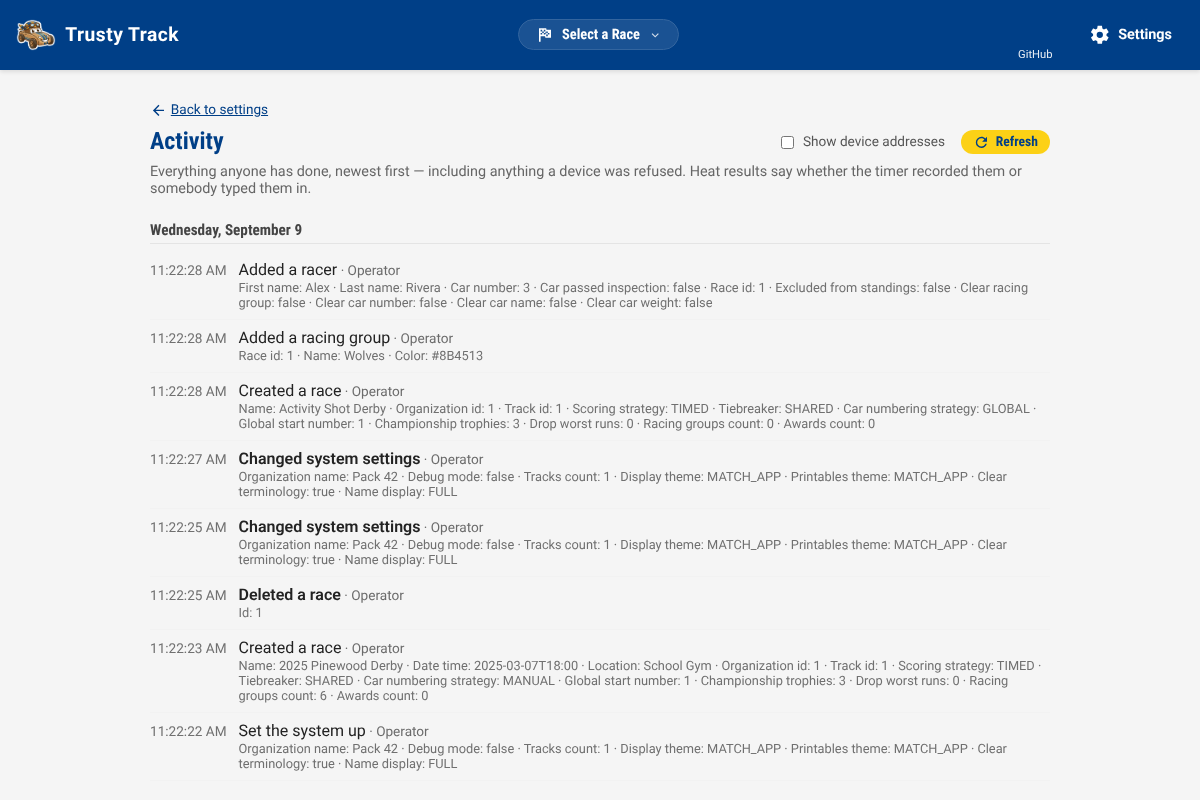
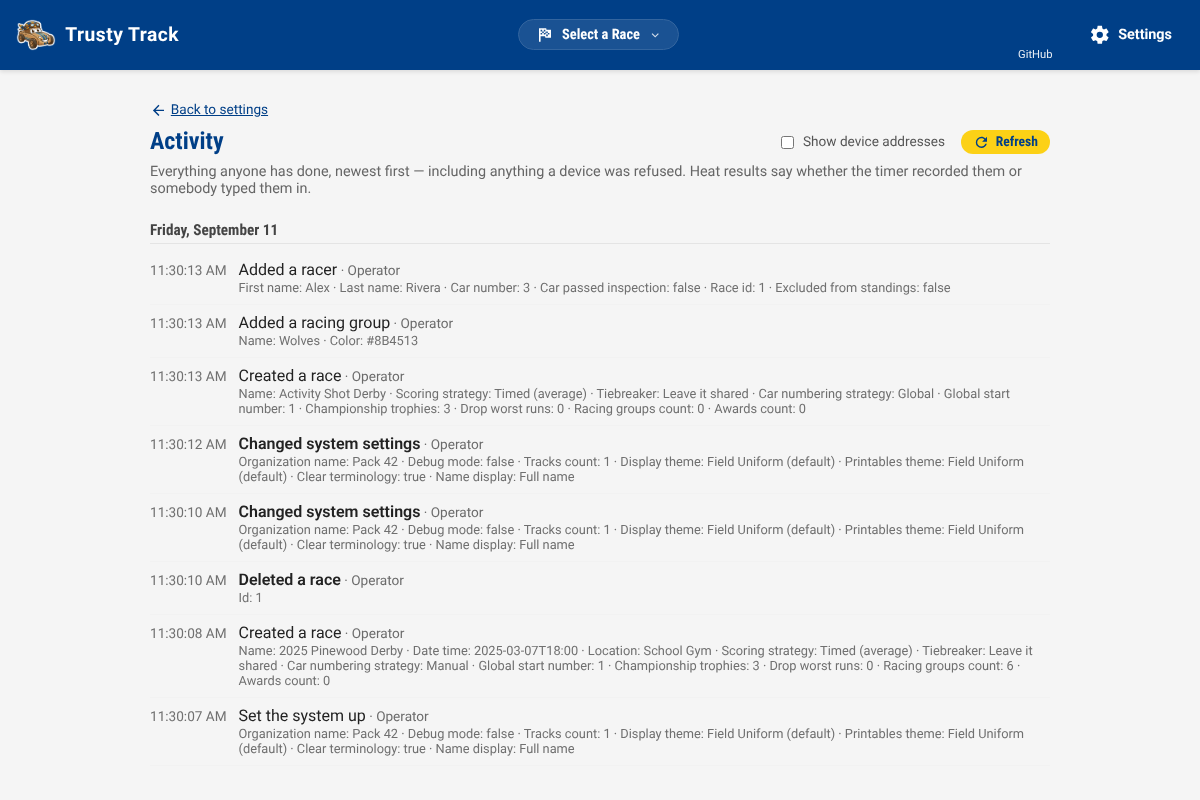
Stats and the activity log printed internal codes, not words
The Stats page's Scoring card rendered `{stats.scoringStrategy}` raw
("TIMED") where the Roster page already turns the same value into
"Timed (average)" through `strategyLabel`. The activity log's detail
lines went further — every enum-valued mutation argument the log
stores (scoring strategy, tiebreaker, car numbering strategy, the two
theme fields, name display, timer type) printed its internal spelling
verbatim, alongside `clearX: false` riders that did nothing and an id
beside a name that already said the same thing better.

`describeValue(field, value)` maps a stored detail's leaf field name
through the exact label tables the forms that wrote it already use —
`strategyLabel`, `TIEBREAKER_OPTIONS`, the new `numberingStrategyLabel`
(extracted from `RaceDetails.tsx`'s own inline map so the race summary
card and the log read the same word), `themeSettingLabel` (new,
alongside `themeByKey`), `NAME_DISPLAY_OPTIONS`, and `timerTypeLabel`
(new, extracted from `TrackCard.tsx`'s `<select>` so the picker and the
log cannot drift apart). Applied at render, never stored — an audit
entry stays exactly the self-contained claim it always was.

`detailPairs` in `activityLog.ts` also now drops a `clearX: false`
rider (a flag that did nothing is not something that happened) and
prefers a `name` detail over an `id` detail when an entry carries both,
without fetching anything to manufacture the half that's missing.

Fixes #942

diff --git a/frontend/src/features/settings/describeValue.ts b/frontend/src/features/settings/describeValue.ts
@@ -1,0 +1,57 @@
+/**
+ * Turning a stored detail's raw value into words, at render time (#942).
+ *
+ * The activity log's detail line used to print `Scoring strategy: TIMED`,
+ * `Tiebreaker: SHARED`, `Display theme: MATCH_APP` — an audit entry stores
+ * exactly the arguments a mutation was called with (`domain/audit.redact`),
+ * which for these fields is the internal enum value a form picker chose
+ * from, not a word an operator ever typed or read. `domain/audit.describe`
+ * renders the log's *sentence* from the entry alone and never looks
+ * anything up ("The activity log" in `CLAUDE.md` — an entry is a claim
+ * about a moment that has passed) — this is that same rule applied to the
+ * *values* listed underneath the sentence: no fetch, no id resolved against
+ * the database as it stands today, only the value the entry already stored,
+ * read through the exact label tables the forms that wrote it already use.
+ *
+ * `field` is the leaf key — `detailPairs` in `activityLog.ts` strips the
+ * `race.`/`config.` prefix a nested input's flattening adds before calling
+ * this — matched with underscores and case folded away, so the stored
+ * `scoring_strategy` and any differently-cased variant land on the same
+ * case below.
+ *
+ * A field this module has never heard of, or a value none of the tables it
+ * reads recognise, passes through unchanged: the same "print something
+ * rather than throw" rule every label helper here already follows
+ * (`strategyLabel`, `themeByKey`, `timerTypeLabel`).
+ */
+
+import { strategyLabel } from '../stats/scoringStrategyText';
+import { TIEBREAKER_OPTIONS } from '../stats/tiebreakText';
+import { numberingStrategyLabel } from '../management/raceSetup';
+import { themeSettingLabel } from '../../theming/themes';
+import { NAME_DISPLAY_OPTIONS } from '../core/displayName';
+import { timerTypeLabel } from './timerTypeText';
+
+function normalised(field: string): string {
+    return field.toLowerCase().replace(/_/g, '');
+}
+
+export function describeValue(field: string, value: string): string {
+    switch (normalised(field)) {
+        case 'scoringstrategy':
+            return strategyLabel(value);
+        case 'tiebreaker':
+            return TIEBREAKER_OPTIONS.find((option) => option.value === value)?.label ?? value;
+        case 'carnumberingstrategy':
+            return numberingStrategyLabel(value);
+        case 'displaytheme':
+        case 'printablestheme':
+            return themeSettingLabel(value);
+        case 'namedisplay':
+            return NAME_DISPLAY_OPTIONS.find((option) => option.value === value)?.label ?? value;
+        case 'timertype':
+            return timerTypeLabel(value);
+        default:
+            return value;
+    }
+}

diff --git a/frontend/src/features/settings/activityLog.ts b/frontend/src/features/settings/activityLog.ts
@@ -10,6 +10,8 @@
  * Pure. No React, no urql.
  */
 
+import { describeValue } from './describeValue';
+
 export interface LogEntry {
     id: number;
     at: string;
@@ -125,6 +127,14 @@ export function hasAnotherPage(page: readonly LogEntry[], pageSize: number): boo
     return page.length >= pageSize;
 }
 
+/** `race.carNumberingStrategy` → `carNumberingStrategy` — the part
+ * `humanise` turns into words and `describeValue` (#942) matches a label
+ * table on. Its own function because both need it and neither should
+ * re-derive it differently. */
+function leafKey(key: string): string {
+    return key.split('.').pop() ?? key;
+}
+
 /**
  * The stored details, as label/value pairs.
  *
@@ -142,14 +152,32 @@ export function detailPairs(details: string | null | undefined): DetailPair[] {
     }
     if (!parsed || typeof parsed !== 'object' || Array.isArray(parsed)) return [];
 
-    return Object.entries(parsed as Record<string, unknown>)
+    const entries = Object.entries(parsed as Record<string, unknown>)
         // `reason` (#889) is a refusal's own message, already folded into the
         // bolded summary sentence by `domain/audit.describe` — showing it
         // again here would say the same thing twice.
         .filter(([key]) => key !== 'reason')
+        // A `clearX: false` rider (`clearWeightLimit`, `clearTerminology`…)
+        // did nothing — absent already means "leave alone" for every one of
+        // these flags — so it is not something that happened (#942). A
+        // `true` rider stays: that one changed something.
+        .filter(([key, value]) => !(/^clear/i.test(leafKey(key)) && value === false));
+
+    // Prefer the name over the id when an entry carries both (#942) — the
+    // id beside a name that already identifies the same thing says nothing
+    // more. Kept when the name is all there is, or the id is all there is:
+    // nothing here is fetched to manufacture the half that is missing.
+    const hasName = entries.some(([key]) => leafKey(key).toLowerCase() === 'name');
+    const isIdLeaf = (key: string) => {
+        const leaf = leafKey(key);
+        return /^id$/i.test(leaf) || /_id$/i.test(leaf) || /Id$/.test(leaf);
+    };
+
+    return entries
+        .filter(([key]) => !(hasName && isIdLeaf(key)))
         .map(([key, value]) => ({
             label: humanise(key),
-            value: String(value),
+            value: describeValue(leafKey(key), String(value)),
         }));
 }
 

diff --git a/frontend/src/features/settings/activityLog.test.ts b/frontend/src/features/settings/activityLog.test.ts
@@ -125,6 +125,44 @@ describe('detailPairs', () => {
             detailPairs('{"id": 4, "reason": "VIEWER is not allowed to run deleteRound"}'),
         ).toEqual([{ label: 'Id', value: '4' }]);
     });
+
+    it('reads a known enum field through its label table (#942)', () => {
+        expect(detailPairs('{"race.scoring_strategy": "TIMED"}')).toEqual([
+            { label: 'Scoring strategy', value: 'Timed (average)' },
+        ]);
+        expect(detailPairs('{"race.display_theme": "MATCH_APP"}')).toEqual([
+            { label: 'Display theme', value: 'Field Uniform (default)' },
+        ]);
+    });
+
+    it('leaves an unmapped field as its raw value', () => {
+        expect(detailPairs('{"name": "Pack 42"}')).toEqual([{ label: 'Name', value: 'Pack 42' }]);
+    });
+
+    it('drops a clearX: false rider — a flag that did nothing is not something that happened', () => {
+        expect(
+            detailPairs('{"race.name": "2026 Derby", "race.clear_terminology": false}'),
+        ).toEqual([{ label: 'Name', value: '2026 Derby' }]);
+    });
+
+    it('keeps a clearX: true rider — that one changed something', () => {
+        expect(
+            detailPairs('{"race.name": "2026 Derby", "race.clear_terminology": true}'),
+        ).toEqual([
+            { label: 'Name', value: '2026 Derby' },
+            { label: 'Clear terminology', value: 'true' },
+        ]);
+    });
+
+    it('prefers the name over the id when the entry carries both', () => {
+        expect(detailPairs('{"id": 1, "race.name": "2026 Derby"}')).toEqual([
+            { label: 'Name', value: '2026 Derby' },
+        ]);
+    });
+
+    it('keeps the id when it is all there is', () => {
+        expect(detailPairs('{"id": 1}')).toEqual([{ label: 'Id', value: '1' }]);
+    });
 });
 
 describe('humanise', () => {

diff --git a/frontend/src/features/settings/describeValue.test.ts b/frontend/src/features/settings/describeValue.test.ts
@@ -1,0 +1,37 @@
+import { describe, expect, it } from 'vitest';
+import { describeValue } from './describeValue';
+
+describe('describeValue', () => {
+    it.each([
+        ['scoring_strategy', 'TIMED', 'Timed (average)'],
+        ['scoring_strategy', 'POINTS', 'Points (by finish)'],
+        ['tiebreaker', 'SHARED', 'Leave it shared'],
+        ['tiebreaker', 'HEAD_TO_HEAD', 'Head-to-head'],
+        ['car_numbering_strategy', 'GLOBAL', 'Global'],
+        ['car_numbering_strategy', 'PER_GROUP', 'Per Den'],
+        ['car_numbering_strategy', 'MANUAL', 'Manual'],
+        ['display_theme', 'MATCH_APP', 'Field Uniform (default)'],
+        ['display_theme', 'old-glory', 'Old Glory'],
+        ['printables_theme', 'newsprint', 'Newsprint'],
+        ['name_display', 'LAST_INITIAL', 'First name and last initial'],
+        ['name_display', 'FULL', 'Full name'],
+        ['timer_type', 'AUTO_DETECT_BACKEND', 'Plugged into this machine'],
+        ['timer_type', 'FAKE', 'Fake Timer (Manual Control)'],
+    ])('maps %s: %s to %s', (field, value, expected) => {
+        expect(describeValue(field, value)).toBe(expected);
+    });
+
+    it('leaves a field it has never heard of unchanged', () => {
+        expect(describeValue('weight_limit_oz', '5')).toBe('5');
+    });
+
+    it('leaves a value none of its tables recognise unchanged', () => {
+        expect(describeValue('scoring_strategy', 'SOME_FUTURE_STRATEGY')).toBe(
+            'SOME_FUTURE_STRATEGY',
+        );
+    });
+
+    it('does not touch a false rider — dropping it is detailPairs’ job, not this one’s', () => {
+        expect(describeValue('clear_terminology', 'false')).toBe('false');
+    });
+});

diff --git a/frontend/src/features/settings/components/TrackCard.tsx b/frontend/src/features/settings/components/TrackCard.tsx
@@ -25,6 +25,7 @@ import TrackRecords, { type HistoricalRecord } from './TrackRecords';
 import { useTerminology } from '../../../context/TerminologyContext';
 import { lanesOf } from '../laneOutages';
 import { colorForLane, presetColors, presetForLaneCount, presetNameForColor, setLaneColor } from '../laneColors';
+import { TIMER_TYPE_LABELS } from '../timerTypeText';
 
 export interface TrackFields {
   // Absent until the track has been saved, which is also when it can first
@@ -386,14 +387,14 @@ export default function TrackCard({
           onChange={(e) => onChange('timerType', e.target.value)}
           style={{ ...textInput, marginBottom: track.timerType === 'FAKE' || track.timerType === 'NONE' ? '0' : '1rem' }}
         >
-          <option value="FAKE">Fake Timer (Manual Control)</option>
+          <option value="FAKE">{TIMER_TYPE_LABELS.FAKE}</option>
           {showBackendOption && (
-            <option value="AUTO_DETECT_BACKEND">Plugged into this machine</option>
+            <option value="AUTO_DETECT_BACKEND">{TIMER_TYPE_LABELS.AUTO_DETECT_BACKEND}</option>
           )}
           {showProxyOption && (
-            <option value="AUTO_DETECT_PROXY">Plugged into the laptop running the browser</option>
+            <option value="AUTO_DETECT_PROXY">{TIMER_TYPE_LABELS.AUTO_DETECT_PROXY}</option>
           )}
-          <option value="NONE">No timer — I'll enter results by hand</option>
+          <option value="NONE">{TIMER_TYPE_LABELS.NONE}</option>
         </select>
       </div>
 

diff --git a/frontend/src/features/management/raceSetup.ts b/frontend/src/features/management/raceSetup.ts
@@ -135,6 +135,33 @@ export function numberingStrategyFor(
 }
 
 /**
+ * A short, human name for `car_numbering_strategy` — "Global", "Per Den",
+ * "Manual" (#942) — for the race summary card and the activity log, both of
+ * which used to show the raw stored value. `group` is the resolved
+ * racing-group word, so a renamed install reads "Per Class" rather than a
+ * fixed "Per Den"; callers with no terminology in view (the activity log
+ * never fetches one, to keep an entry self-contained — see `describeValue`
+ * in `activityLog.ts`) get the built-in word via the default. Falls back to
+ * the raw string for a value this module does not recognise, the same
+ * "print something rather than throw" rule `strategyLabel` follows.
+ */
+export function numberingStrategyLabel(
+    strategy: string | null | undefined,
+    group: string = DEFAULT_TERMINOLOGY.racingGroupSingular,
+): string {
+    switch (strategy) {
+        case 'MANUAL':
+            return 'Manual';
+        case 'PER_GROUP':
+            return `Per ${group}`;
+        case 'GLOBAL':
+            return 'Global';
+        default:
+            return strategy ?? '-';
+    }
+}
+
+/**
  * The groups the answers scaffold, each with the number block Manage Dens
  * would have offered it in turn — 100–199, 200–299 — so a race set up here
  * numbers exactly as one set up by hand. Under global numbering the ranges

diff --git a/frontend/src/features/management/pages/RaceDetails.tsx b/frontend/src/features/management/pages/RaceDetails.tsx
@@ -38,6 +38,7 @@ import * as GQL from '../graphql/queries';
 import { DEFAULT_SORT, nextSortState, sortRacers, type SortKey, type SortState } from '../rosterSort';
 import { groupRacersByRacingGroup } from '../groupRacersByRacingGroup';
 import { strategyLabel } from '../../stats/scoringStrategyText';
+import { numberingStrategyLabel } from '../raceSetup';
 import { RACE_LOCKED_MESSAGE } from '../../core/raceLockMessage';
 
 /**
@@ -898,11 +899,7 @@ export default function RaceDetails() {
           )}
           <div style={{ display: 'grid', gridTemplateColumns: 'repeat(auto-fit, minmax(200px, 1fr))', gap: '1rem' }}>
               <div><strong>Scoring:</strong> {strategyLabel(race?.scoring_strategy)}</div>
-              <div><strong>{vehicle} Numbering:</strong> {race?.car_numbering_strategy ? ({
-                  'MANUAL': 'Manual',
-                  'PER_GROUP': `Per ${group}`,
-                  'GLOBAL': 'Global'
-              }[race.car_numbering_strategy] || race.car_numbering_strategy) : '-'}</div>
+              <div><strong>{vehicle} Numbering:</strong> {numberingStrategyLabel(race?.car_numbering_strategy, group)}</div>
               <div><strong>Championship Trophies:</strong> {race?.championship_trophies || 3}</div>
               <div><strong>Track:</strong> {Array.isArray(tracks) && tracks.find(t => t.id === race?.track_id)?.name || 'Unknown'}</div>
           </div>

diff --git a/frontend/src/features/settings/timerTypeText.ts b/frontend/src/features/settings/timerTypeText.ts
@@ -1,0 +1,25 @@
+/**
+ * Saying a track's `timerType` out loud (#942).
+ *
+ * `Track.timerType` crosses the GraphQL boundary as a plain string —
+ * `AUTO_DETECT_BACKEND`, `AUTO_DETECT_PROXY` — which is exactly the wrong
+ * thing to put in front of an operator. `TrackCard.tsx`'s Timer Type
+ * `<select>` is the one place these were previously spelled out in words;
+ * `TIMER_TYPE_LABELS` is that same wording, moved here so the activity log
+ * (`activityLog.ts`'s `describeValue`) can read it too rather than growing a
+ * second copy of the same four strings.
+ */
+
+export const TIMER_TYPE_LABELS: Readonly<Record<string, string>> = {
+    FAKE: 'Fake Timer (Manual Control)',
+    AUTO_DETECT_BACKEND: 'Plugged into this machine',
+    AUTO_DETECT_PROXY: 'Plugged into the laptop running the browser',
+    NONE: "No timer — I'll enter results by hand",
+};
+
+/** A short, human name for a timer type. Falls back to the raw string for a
+ * value this module does not recognise, the same "print something rather
+ * than throw" rule `strategyLabel` follows. */
+export function timerTypeLabel(timerType: string | null | undefined): string {
+    return (timerType && TIMER_TYPE_LABELS[timerType]) || timerType || '-';
+}

diff --git a/frontend/src/theming/themes.ts b/frontend/src/theming/themes.ts
@@ -1743,3 +1743,19 @@ export function themeByKey(key: string): Theme {
 /** Every key this build ships, for the picker and for validating a stored
  *  value. */
 export const THEME_KEYS: readonly ThemeKey[] = THEMES.map((t) => t.key);
+
+/**
+ * A short, human name for a `SurfaceThemeSetting` — a Display or Printables
+ * theme, straight off `Organization.display_theme`/`printables_theme` (#942)
+ * — for the activity log, which otherwise showed the raw stored value
+ * (`MATCH_APP`, `old-glory`). `'Field Uniform (default)'` mirrors
+ * `ThemePicker.tsx`'s own wording for the `MATCH_APP` sentinel (#528); every
+ * other value is an ordinary `ThemeKey` and reads its name off `themeByKey`,
+ * so this is not a second table of theme names, only the one extra case
+ * `themeByKey` itself does not cover.
+ */
+export function themeSettingLabel(setting: string | null | undefined): string {
+  if (setting === 'MATCH_APP') return 'Field Uniform (default)';
+  if (!setting) return '-';
+  return themeByKey(setting).name;
+}

diff --git a/frontend/src/features/stats/pages/RaceStats.tsx b/frontend/src/features/stats/pages/RaceStats.tsx
@@ -18,6 +18,7 @@ import { GET_RACE_STATS } from '../graphql/queries';
 import { useTerminology } from '../../../context/TerminologyContext';
 import { formatScaleMph } from '../../observation/scaleSpeed';
 import { groupScoreDomain } from '../groupScoreDomain';
+import { strategyLabel } from '../scoringStrategyText';
 import './RaceStats.css';
 
 // ---- Types ----
@@ -235,7 +236,7 @@ export default function RaceStats() {
       <div className="race-stats__overview-cards">
         <div className="race-stats__overview-card race-stats__overview-card--badge">
           <div className="race-stats__overview-card-label">Scoring</div>
-          <div className="race-stats__overview-card-value">{stats.scoringStrategy}</div>
+          <div className="race-stats__overview-card-value">{strategyLabel(stats.scoringStrategy)}</div>
         </div>
         <div className="race-stats__overview-card">
           <div className="race-stats__overview-card-label">Racers</div>

diff --git a/docs/race-stats.md b/docs/race-stats.md
@@ -24,7 +24,7 @@ _Click the Stats tab in the race navigation bar to open the Stats page._
 
 At the top of the page, three summary cards give you a quick snapshot of the race:
 
-- **Scoring** — the scoring method in use (e.g., "TIMED" for fastest average time).
+- **Scoring** — the scoring method in use (e.g., "Timed (average)").
 - **Racers** — how many registered racers have raced at least once, out of the roster (e.g., "14 / 19").
 - **Heats Completed** — how many heats have been run out of the total scheduled (e.g., "12 / 16").
 
